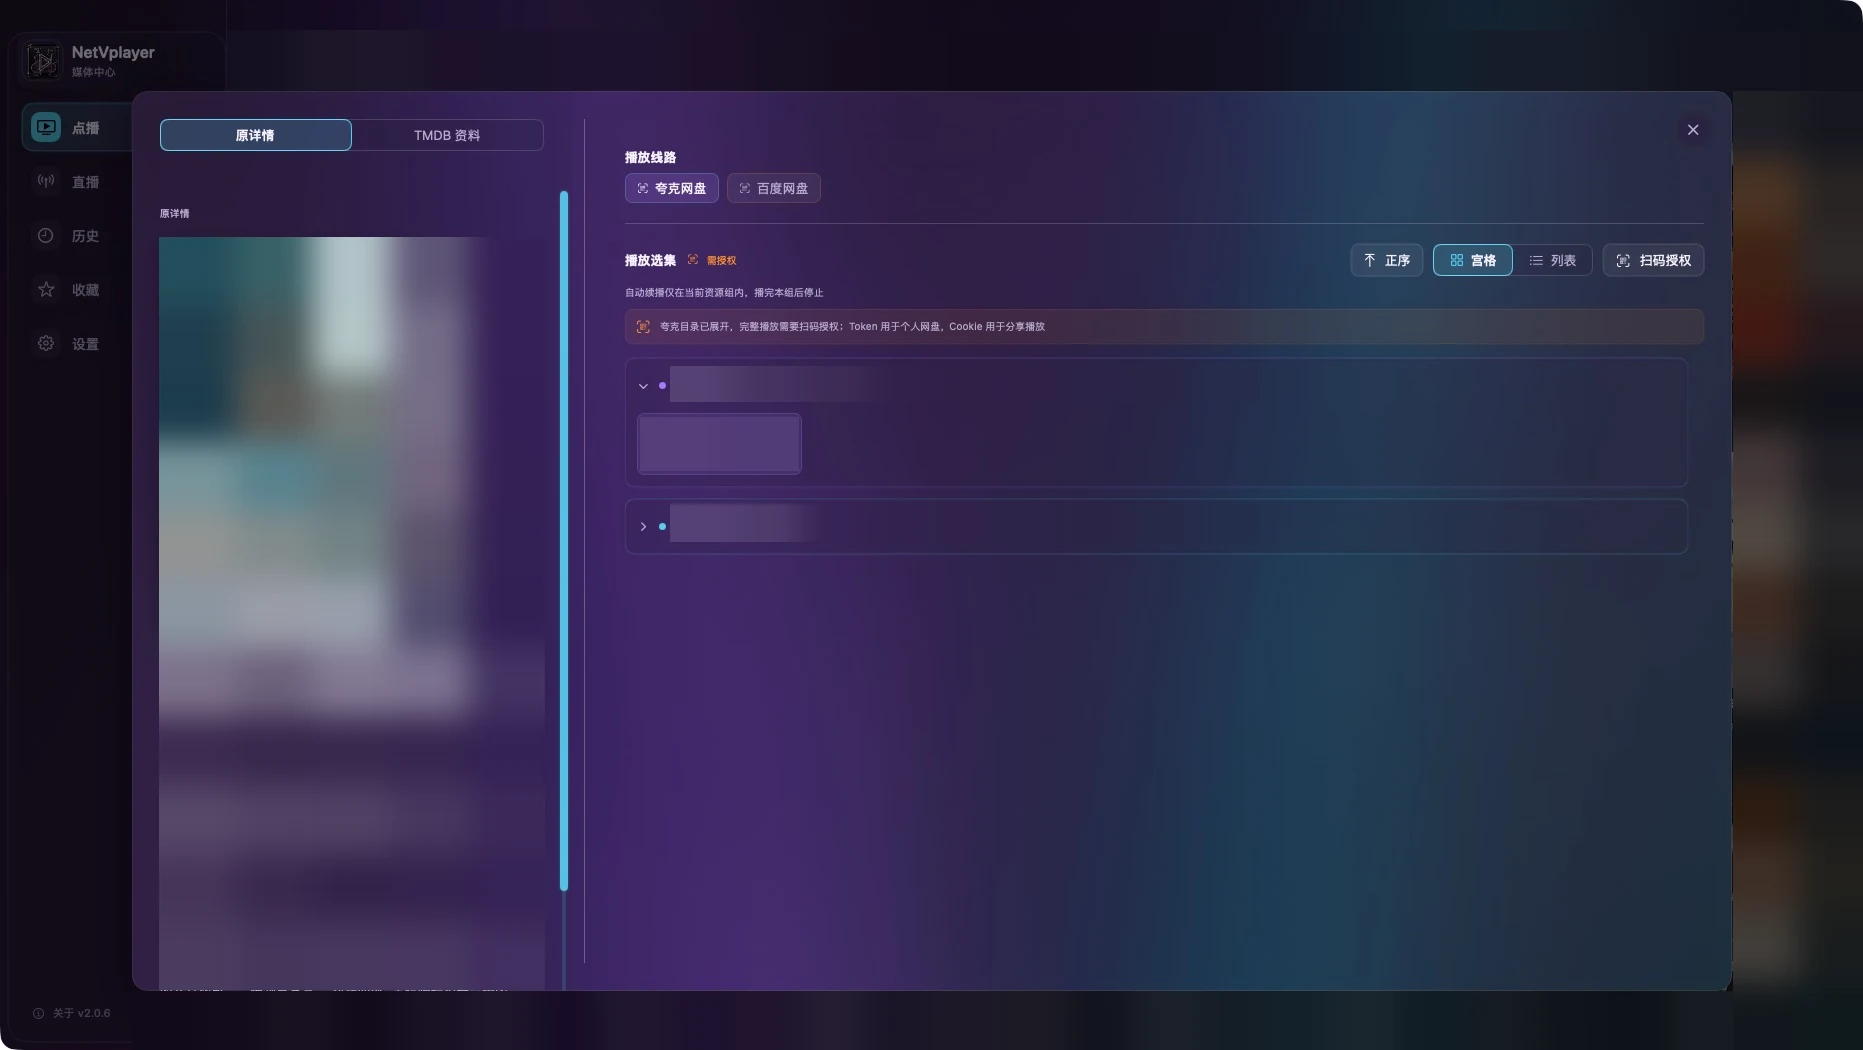
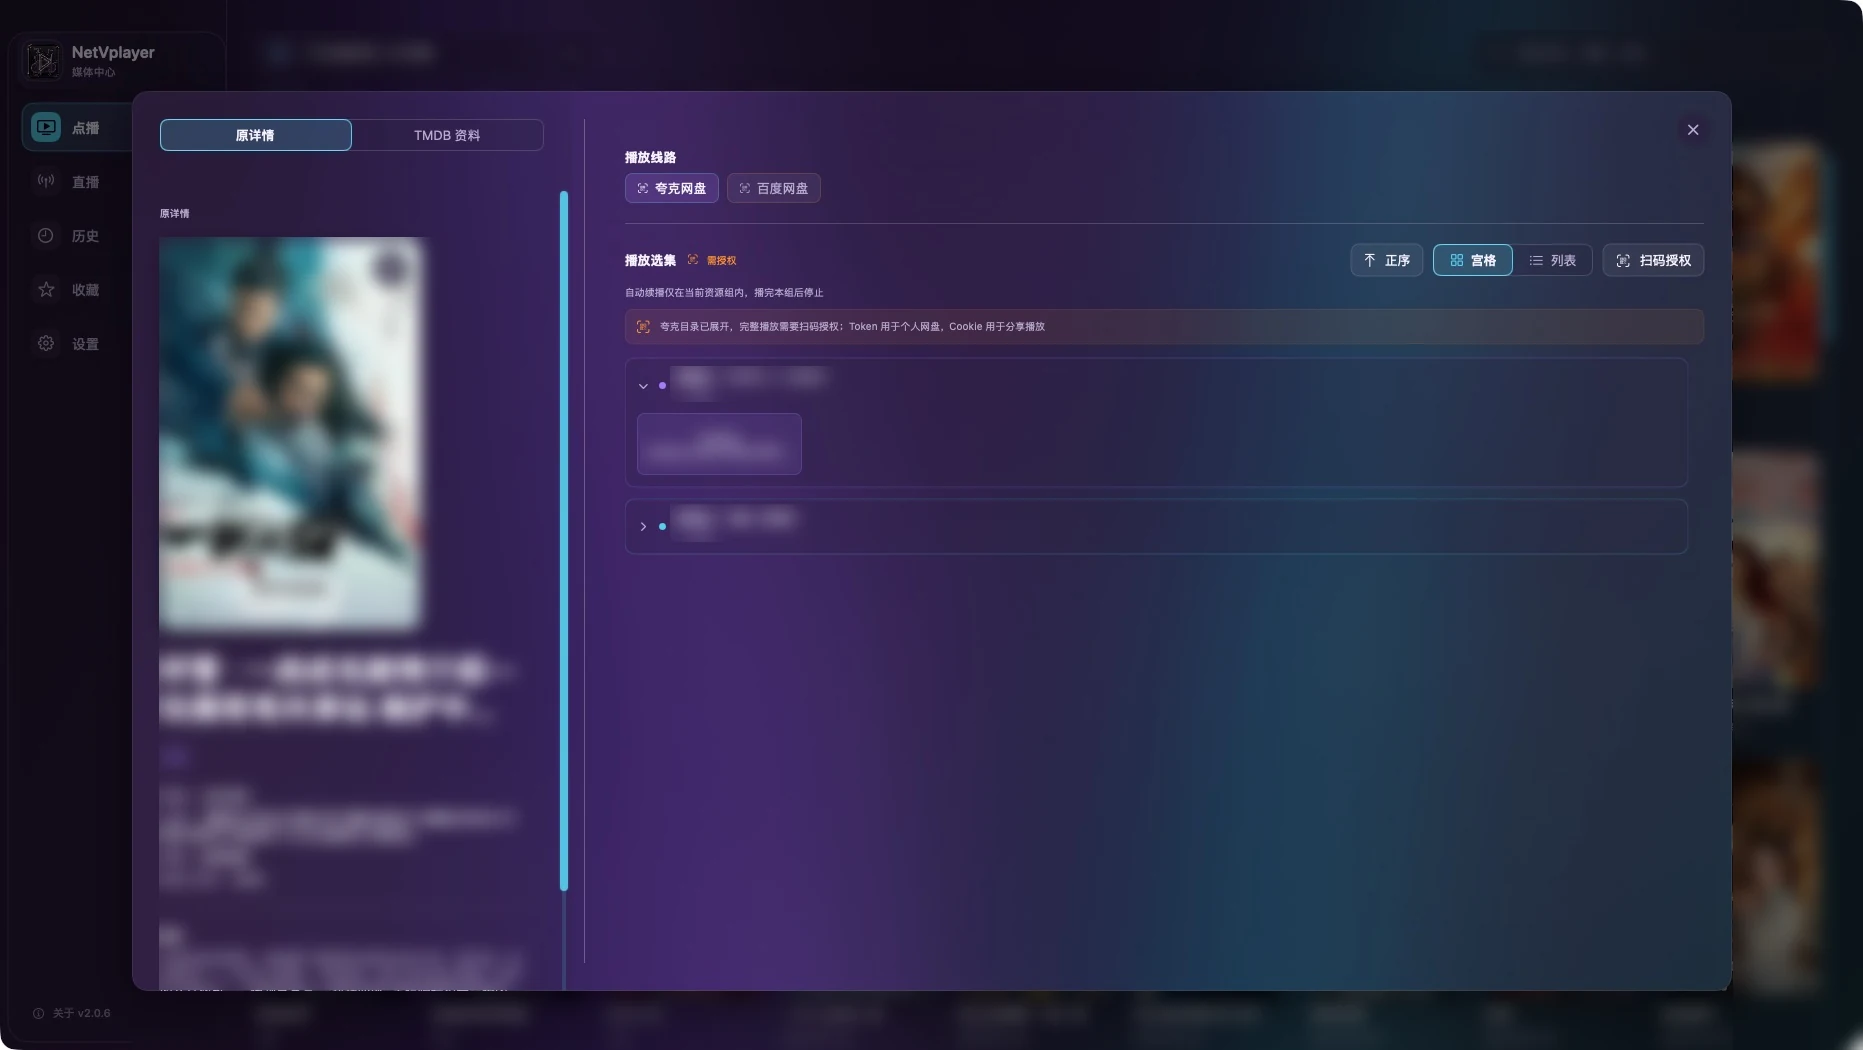
docs: use softer Gaussian blur in product screenshots

diff --git a/website/index.html b/website/index.html
@@ -10,7 +10,7 @@
   <meta property="og:title" content="NetVplayer — 你的内容，你的 Mac，你的播放方式">
   <meta property="og:description" content="你的网盘、NAS、媒体库与在线内容，同一套原生 Mac 浏览和播放体验。">
   <meta property="og:url" content="https://spudhero.github.io/NetVplayer/">
-  <meta property="og:image" content="https://spudhero.github.io/NetVplayer/assets/overview/home.webp">
+  <meta property="og:image" content="https://spudhero.github.io/NetVplayer/assets/overview/home.webp?v=6113684814">
   <meta name="twitter:card" content="summary_large_image">
   <title>NetVplayer — 你的内容，你的 Mac，你的播放方式</title>
   <link rel="canonical" href="https://spudhero.github.io/NetVplayer/">
@@ -75,7 +75,7 @@
 
       <figure class="product-stage reveal" data-od-id="hero-product-image">
         <div class="media-shell screenshot-shell ratio-app" data-media-shell>
-          <img src="assets/overview/home.webp" alt="NetVplayer 新版实际运行首页，海报、影视名称与来源信息已脱敏" fetchpriority="high">
+          <img src="assets/overview/home.webp?v=6113684814" alt="NetVplayer 新版实际运行首页，海报、影视名称与来源信息已脱敏" fetchpriority="high">
         </div>
         <figcaption class="screenshot-note">实际应用截图。来源信息已打码，影视海报与名称已模糊；播放器展示自制本地演示视频。</figcaption>
       </figure>
@@ -110,10 +110,10 @@
 
       <div class="experience-showcase reveal">
         <div class="experience-picker" role="group" aria-label="选择功能界面预览">
-          <button class="experience-option is-active" type="button" aria-pressed="true" data-screen-src="assets/overview/detail.webp" data-screen-name="影片详情与选集" data-screen-alt="NetVplayer 影片详情与选集的实际运行界面">详情</button>
+          <button class="experience-option is-active" type="button" aria-pressed="true" data-screen-src="assets/overview/detail.webp?v=057d310747" data-screen-name="影片详情与选集" data-screen-alt="NetVplayer 影片详情与选集的实际运行界面">详情</button>
           <button class="experience-option" type="button" aria-pressed="false" data-screen-src="assets/overview/player.webp" data-screen-name="点播播放控制" data-screen-alt="NetVplayer 点播播放器的实际运行界面">点播</button>
           <button class="experience-option" type="button" aria-pressed="false" data-screen-src="assets/overview/live-guide.webp" data-screen-name="频道指南与分组搜索" data-screen-alt="NetVplayer 停止直播后的频道指南，展示分组、搜索与线路信息">直播</button>
-          <button class="experience-option" type="button" aria-pressed="false" data-screen-src="assets/overview/search.webp" data-screen-name="跨来源搜索与分享入口" data-screen-alt="NetVplayer 搜索入口和已模糊的热搜条目">搜索</button>
+          <button class="experience-option" type="button" aria-pressed="false" data-screen-src="assets/overview/search.webp?v=6b135ff48e" data-screen-name="跨来源搜索与分享入口" data-screen-alt="NetVplayer 搜索入口和已模糊的热搜条目">搜索</button>
           <button class="experience-option" type="button" aria-pressed="false" data-screen-src="assets/overview/subtitles.webp" data-screen-name="本机字幕翻译与双语导出 · 需要 macOS 15+" data-screen-alt="文本字幕翻译面板，可跟随播放或翻译整份字幕并双语导出">字幕翻译</button>
           <button class="experience-option" type="button" aria-pressed="false" data-screen-src="assets/overview/video-output.webp" data-screen-name="跟随系统、临时 HDR 与 SDR 映射" data-screen-alt="色彩与视频输出的实际设置页面">音画输出</button>
           <button class="experience-option" type="button" aria-pressed="false" data-screen-src="assets/overview/dialogue.webp" data-screen-name="对白清晰度 · 按需选择处理强度" data-screen-alt="对白清晰度的关闭、轻度、中度和较强选项">对白清晰度</button>
@@ -121,7 +121,7 @@
 
         <figure class="experience-stage">
           <div class="media-shell screenshot-shell ratio-experience" data-media-shell>
-            <img id="experience-preview" src="assets/overview/detail.webp" alt="NetVplayer 影片详情与选集的实际运行界面" loading="lazy" decoding="async">
+            <img id="experience-preview" src="assets/overview/detail.webp?v=057d310747" alt="NetVplayer 影片详情与选集的实际运行界面" loading="lazy" decoding="async">
           </div>
           <figcaption id="experience-caption" aria-live="polite">影片详情与选集</figcaption>
         </figure>
@@ -195,13 +195,13 @@
 
       <div class="theme-showcase reveal">
         <div class="theme-picker" role="group" aria-label="选择主题预览">
-          <button class="theme-option is-active" type="button" aria-pressed="true" data-theme-src="assets/overview/home.webp" data-theme-name="极光紫蓝 · 实际浏览界面" data-theme-alt="已模糊影视海报与名称的极光紫蓝主题首页"><span class="theme-swatch swatch-aurora" aria-hidden="true"></span>浏览界面</button>
+          <button class="theme-option is-active" type="button" aria-pressed="true" data-theme-src="assets/overview/home.webp?v=6113684814" data-theme-name="极光紫蓝 · 实际浏览界面" data-theme-alt="已模糊影视海报与名称的极光紫蓝主题首页"><span class="theme-swatch swatch-aurora" aria-hidden="true"></span>浏览界面</button>
           <button class="theme-option" type="button" aria-pressed="false" data-theme-src="assets/overview/themes.webp" data-theme-name="设置 → 外观 · 14 种主题" data-theme-alt="实际外观设置中的 14 种明暗主题"><span class="theme-swatch swatch-clear-sky" aria-hidden="true"></span>主题选择</button>
         </div>
 
         <figure class="theme-stage">
           <div class="media-shell screenshot-shell ratio-app" data-media-shell>
-            <img id="theme-preview" src="assets/overview/home.webp" alt="NetVplayer 极光紫蓝主题的实际运行界面" loading="lazy" decoding="async">
+            <img id="theme-preview" src="assets/overview/home.webp?v=6113684814" alt="NetVplayer 极光紫蓝主题的实际运行界面" loading="lazy" decoding="async">
           </div>
           <figcaption id="theme-caption" aria-live="polite">极光紫蓝</figcaption>
         </figure>

diff --git a/website/brand-spec.md b/website/brand-spec.md
@@ -32,7 +32,7 @@
 9. 扩展支持使用应用内真实运行截图，高级诊断保持收起；配套文字明确首次准备和后续更新需要能访问 GitHub，且不展示源信息、凭据或本机路径。
 10. README 与官网只展示当前产品信息；具体版本修复记录统一链接到仓库根目录的 `CHANGELOG.md`。
 11. 产品介绍按内容接入、浏览播放、音画字幕、使用步骤与架构组织；新增区块复用现有编号行、双栏图文、留白和浅灰分区，不使用版本更新卡片。
-12. 当前产品截图使用真实安装版；源地址、来源昵称等直接在图片像素中遮挡，海报与影视名称强降采样后模糊，移除原图元数据。网页不得依靠 CSS 模糊保护原图。播放器可展示明确标注的自制本地演示视频。
+12. 当前产品截图使用真实安装版；源地址、来源昵称等直接在图片像素中遮挡，海报与影视名称在原像素上直接做适度高斯模糊，保留人物与构图轮廓，不先缩成色块，移除原图元数据。网页不得依靠 CSS 模糊保护原图。播放器可展示明确标注的自制本地演示视频。
 13. 截图入口不代表真实账号或硬件验收成功。翻译标明 macOS 15+，HDR／音频标明实际输出条件，Mac／Android 选择说明重启生效和独立执行。图文指南与架构图使用同一套产品术语。
 
 整体方向：以 Apple 产品页式留白和层级呈现一款原生、可信、由用户掌控内容的 macOS 播放器。

diff --git a/docs/guide.md b/docs/guide.md
@@ -26,7 +26,7 @@
 
 详情页可切换原详情与 TMDB 资料，选择播放线路、资源组和剧集。右上方切换宫格／列表或正倒序。文件大小仅在来源目录已提供时显示；没有大小的条目留空。出现“需授权”时，按对应网盘提示完成自己的登录。
 
-![线路、资源分组与选集](../website/assets/overview/detail.webp)
+![线路、资源分组与选集](../website/assets/overview/detail.webp?v=057d310747)
 
 直播播放器的“频道指南”可按分组浏览或搜索频道，“节目单”查看可用 EPG，播放期间可切换线路、调整音量和进入小窗。指南中的预览是缓存画面，使用“刷新可见画面”更新；没有缓存时仍可选择频道。节目数据取决于列表或服务提供的 EPG。
 
